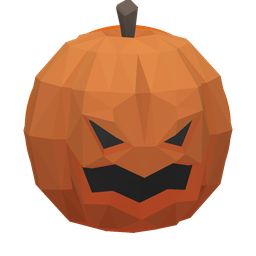
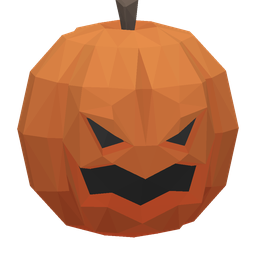
Pumpkin and skull balls: clear glass under the model, a little bigger, so the ball never shows through

diff --git a/make_pack.py b/make_pack.py
@@ -183,11 +183,13 @@ def candle_flames(size):
 
 MODEL_TEXT = {
     "pumpkin_ball.txt": """# The ball as a jack-o'-lantern: KayKit's (Kay Lousberg, CC0), recoloured orange by make_pack.py, stretched a little
-# upright so its body is as round as the ball (100 cm across) and rolling with it. The ball under it is plain orange.
-mesh jackolantern_orange.glb size=100 scale=1.07,1,1.3 at=0,0,-49
+# upright so its body is as round as the ball and a little bigger (106 cm across), rolling with it. The ball itself is
+# clear glass, so where it shows through the pumpkin's grooves the pumpkin is seen through it.
+mesh jackolantern_orange.glb size=106 scale=1.07,1,1.3 at=0,0,-51
 """,
-    "skull_ball.txt": """# The ball as a skull: KayKit's (Kay Lousberg, CC0), as big as the ball and rolling with it. The ball under it is bone.
-mesh skull.glb size=102 at=0,0,-50
+    "skull_ball.txt": """# The ball as a skull: KayKit's (Kay Lousberg, CC0), a little bigger than the ball and rolling with it. The ball itself
+# is clear glass, so where it shows through, the skull is seen through it.
+mesh skull.glb size=106 at=0,0,-51
 """,
     "ghost_ball.txt": """# A ghost (Quaternius, CC0) floating inside a clear ball with a misty purple lower half. It stays upright, faces
 # where the ball is going and flies faster as the ball speeds up; still, it hovers.
@@ -503,8 +505,8 @@ def previews():
     with tempfile.TemporaryDirectory() as tmp:
         work = Path(tmp)
         tris = lambda f: model_tris((MODELS / f).read_text(), work)
-        draw(tris("pumpkin_ball.txt"), PREVIEWS / "pumpkin.png", ball=texture("orange.png"), azimuth=10, elevation=10, extent=62)
-        draw(tris("skull_ball.txt"), PREVIEWS / "skull.png", ball=texture("bone.png"), azimuth=15, elevation=8, extent=60)
+        draw(tris("pumpkin_ball.txt"), PREVIEWS / "pumpkin.png", ball=None, azimuth=10, elevation=10, extent=62)
+        draw(tris("skull_ball.txt"), PREVIEWS / "skull.png", ball=None, azimuth=15, elevation=8, extent=60)
         draw(tris("ghost_ball.txt"), PREVIEWS / "ghost.png", ball="glass", azimuth=15)
         draw(tris("bat_ball.txt"), PREVIEWS / "bat.png", ball="glass", azimuth=10)
         draw(tris("ghost_skull_ball.txt"), PREVIEWS / "ghost_skull.png", ball="glass", azimuth=15)
@@ -527,7 +529,5 @@ if __name__ == "__main__":
     spider_web()
     mummy()
     candy_corn()
-    plain("orange.png", [0.93, 0.42, 0.08])
-    plain("bone.png", [0.9, 0.86, 0.78])
     write_models()
     previews()
